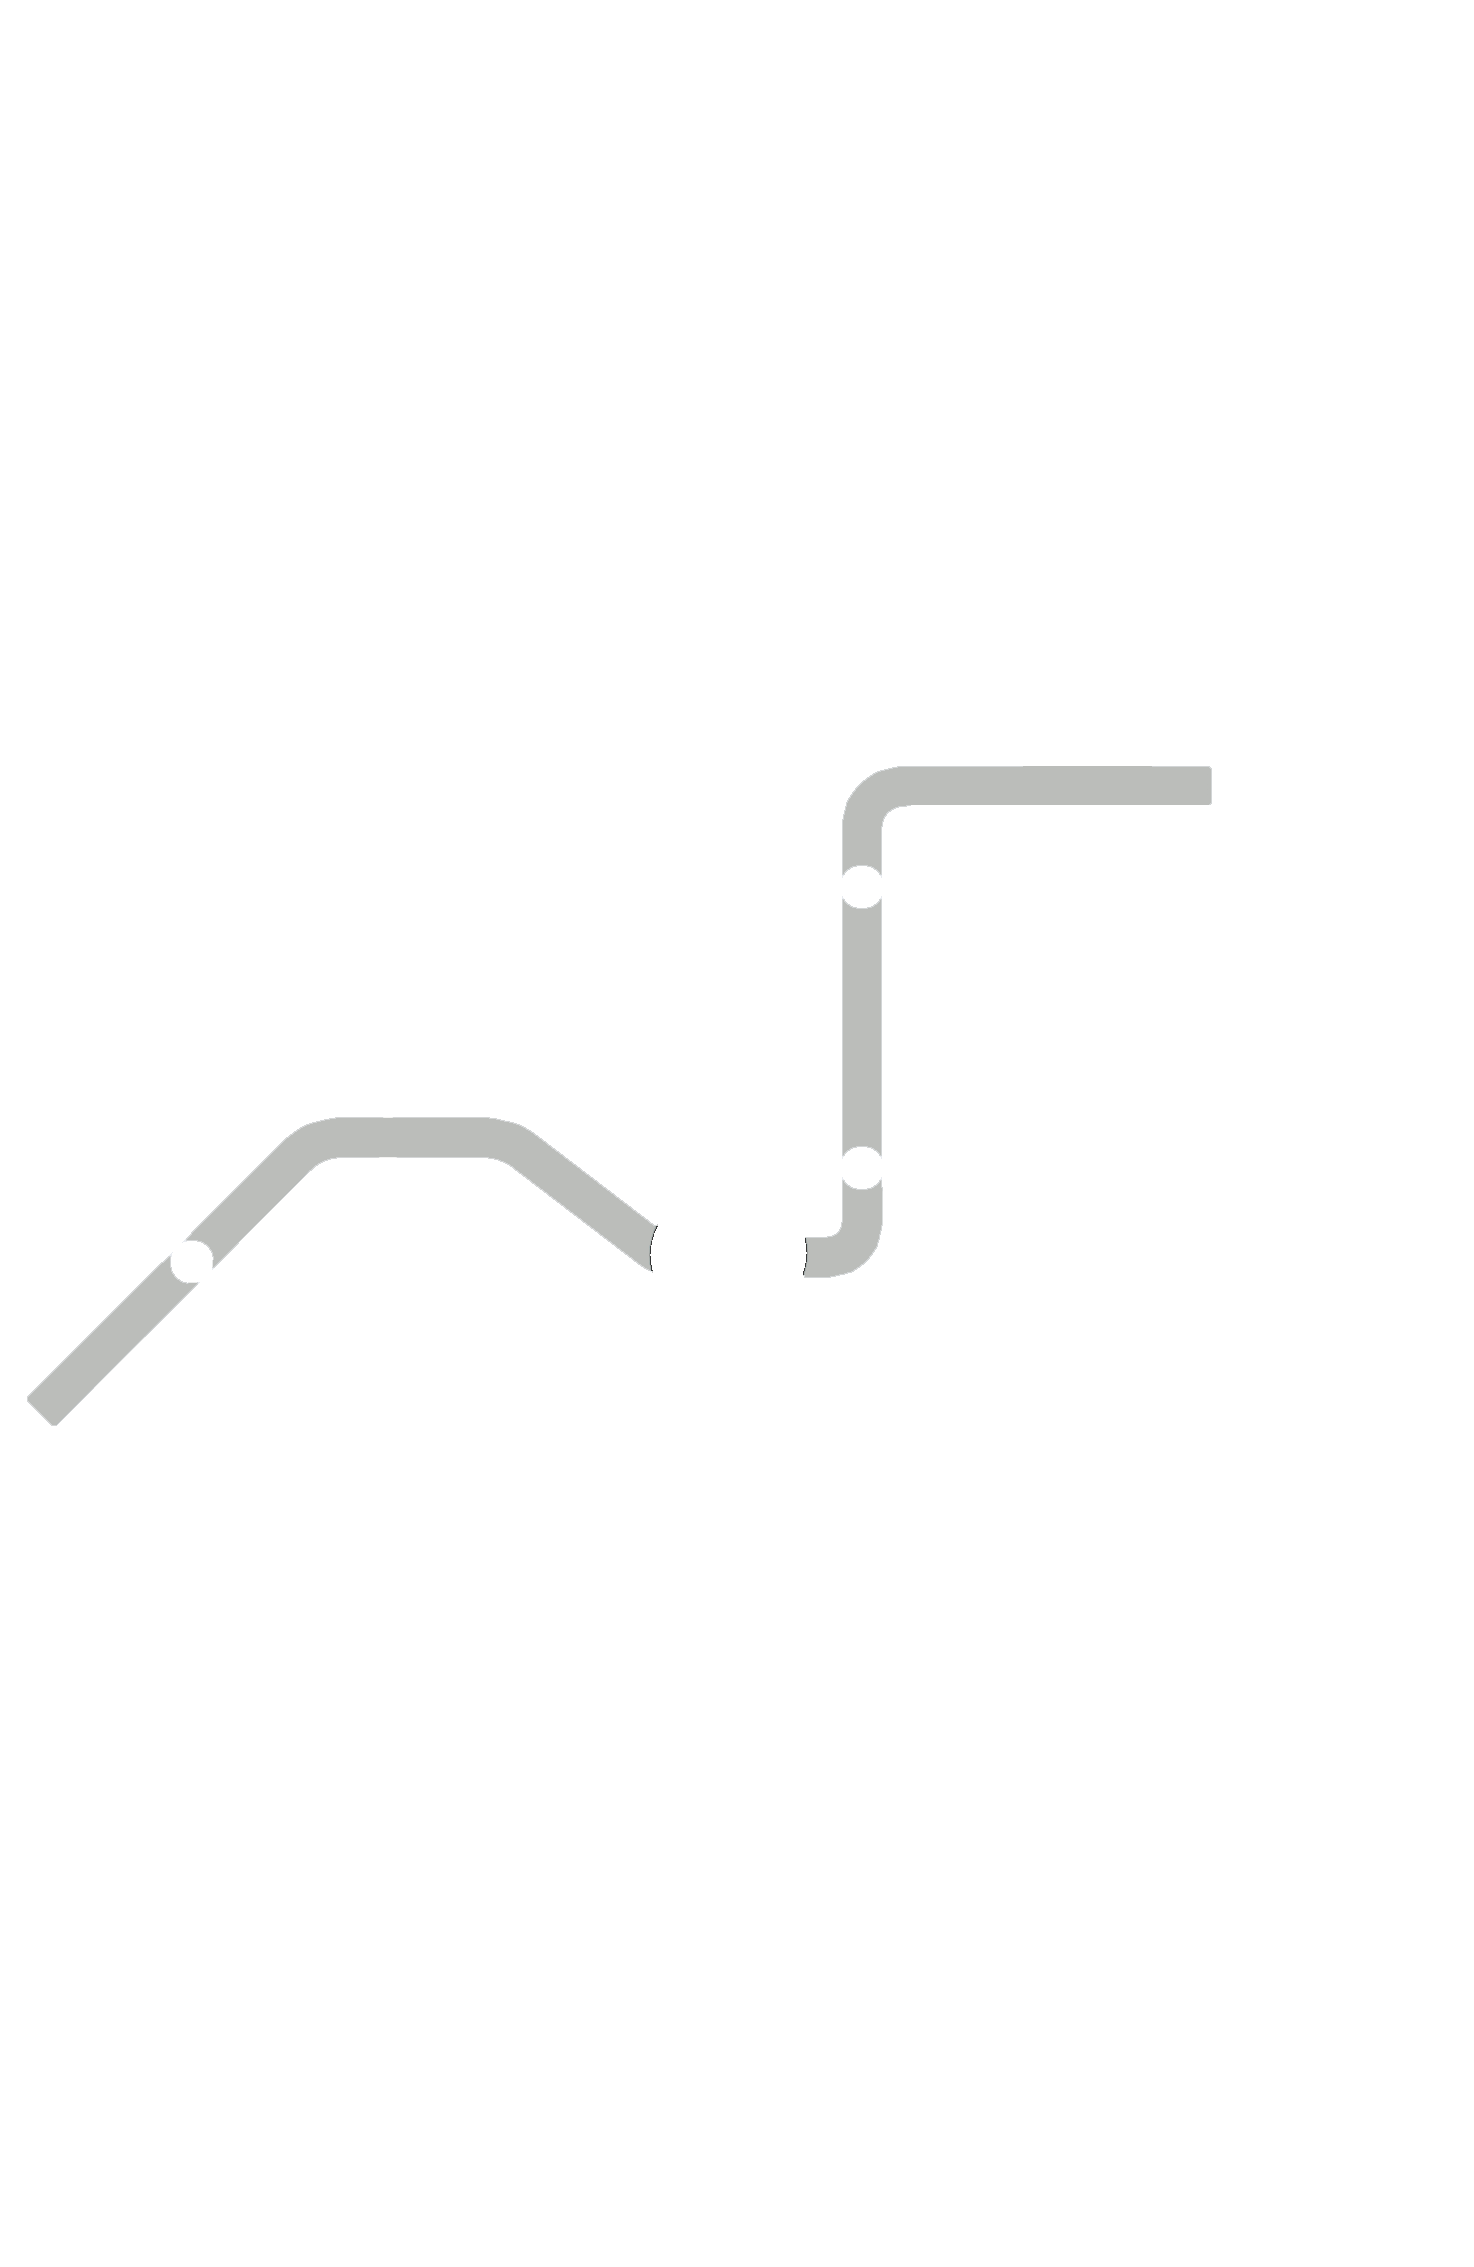
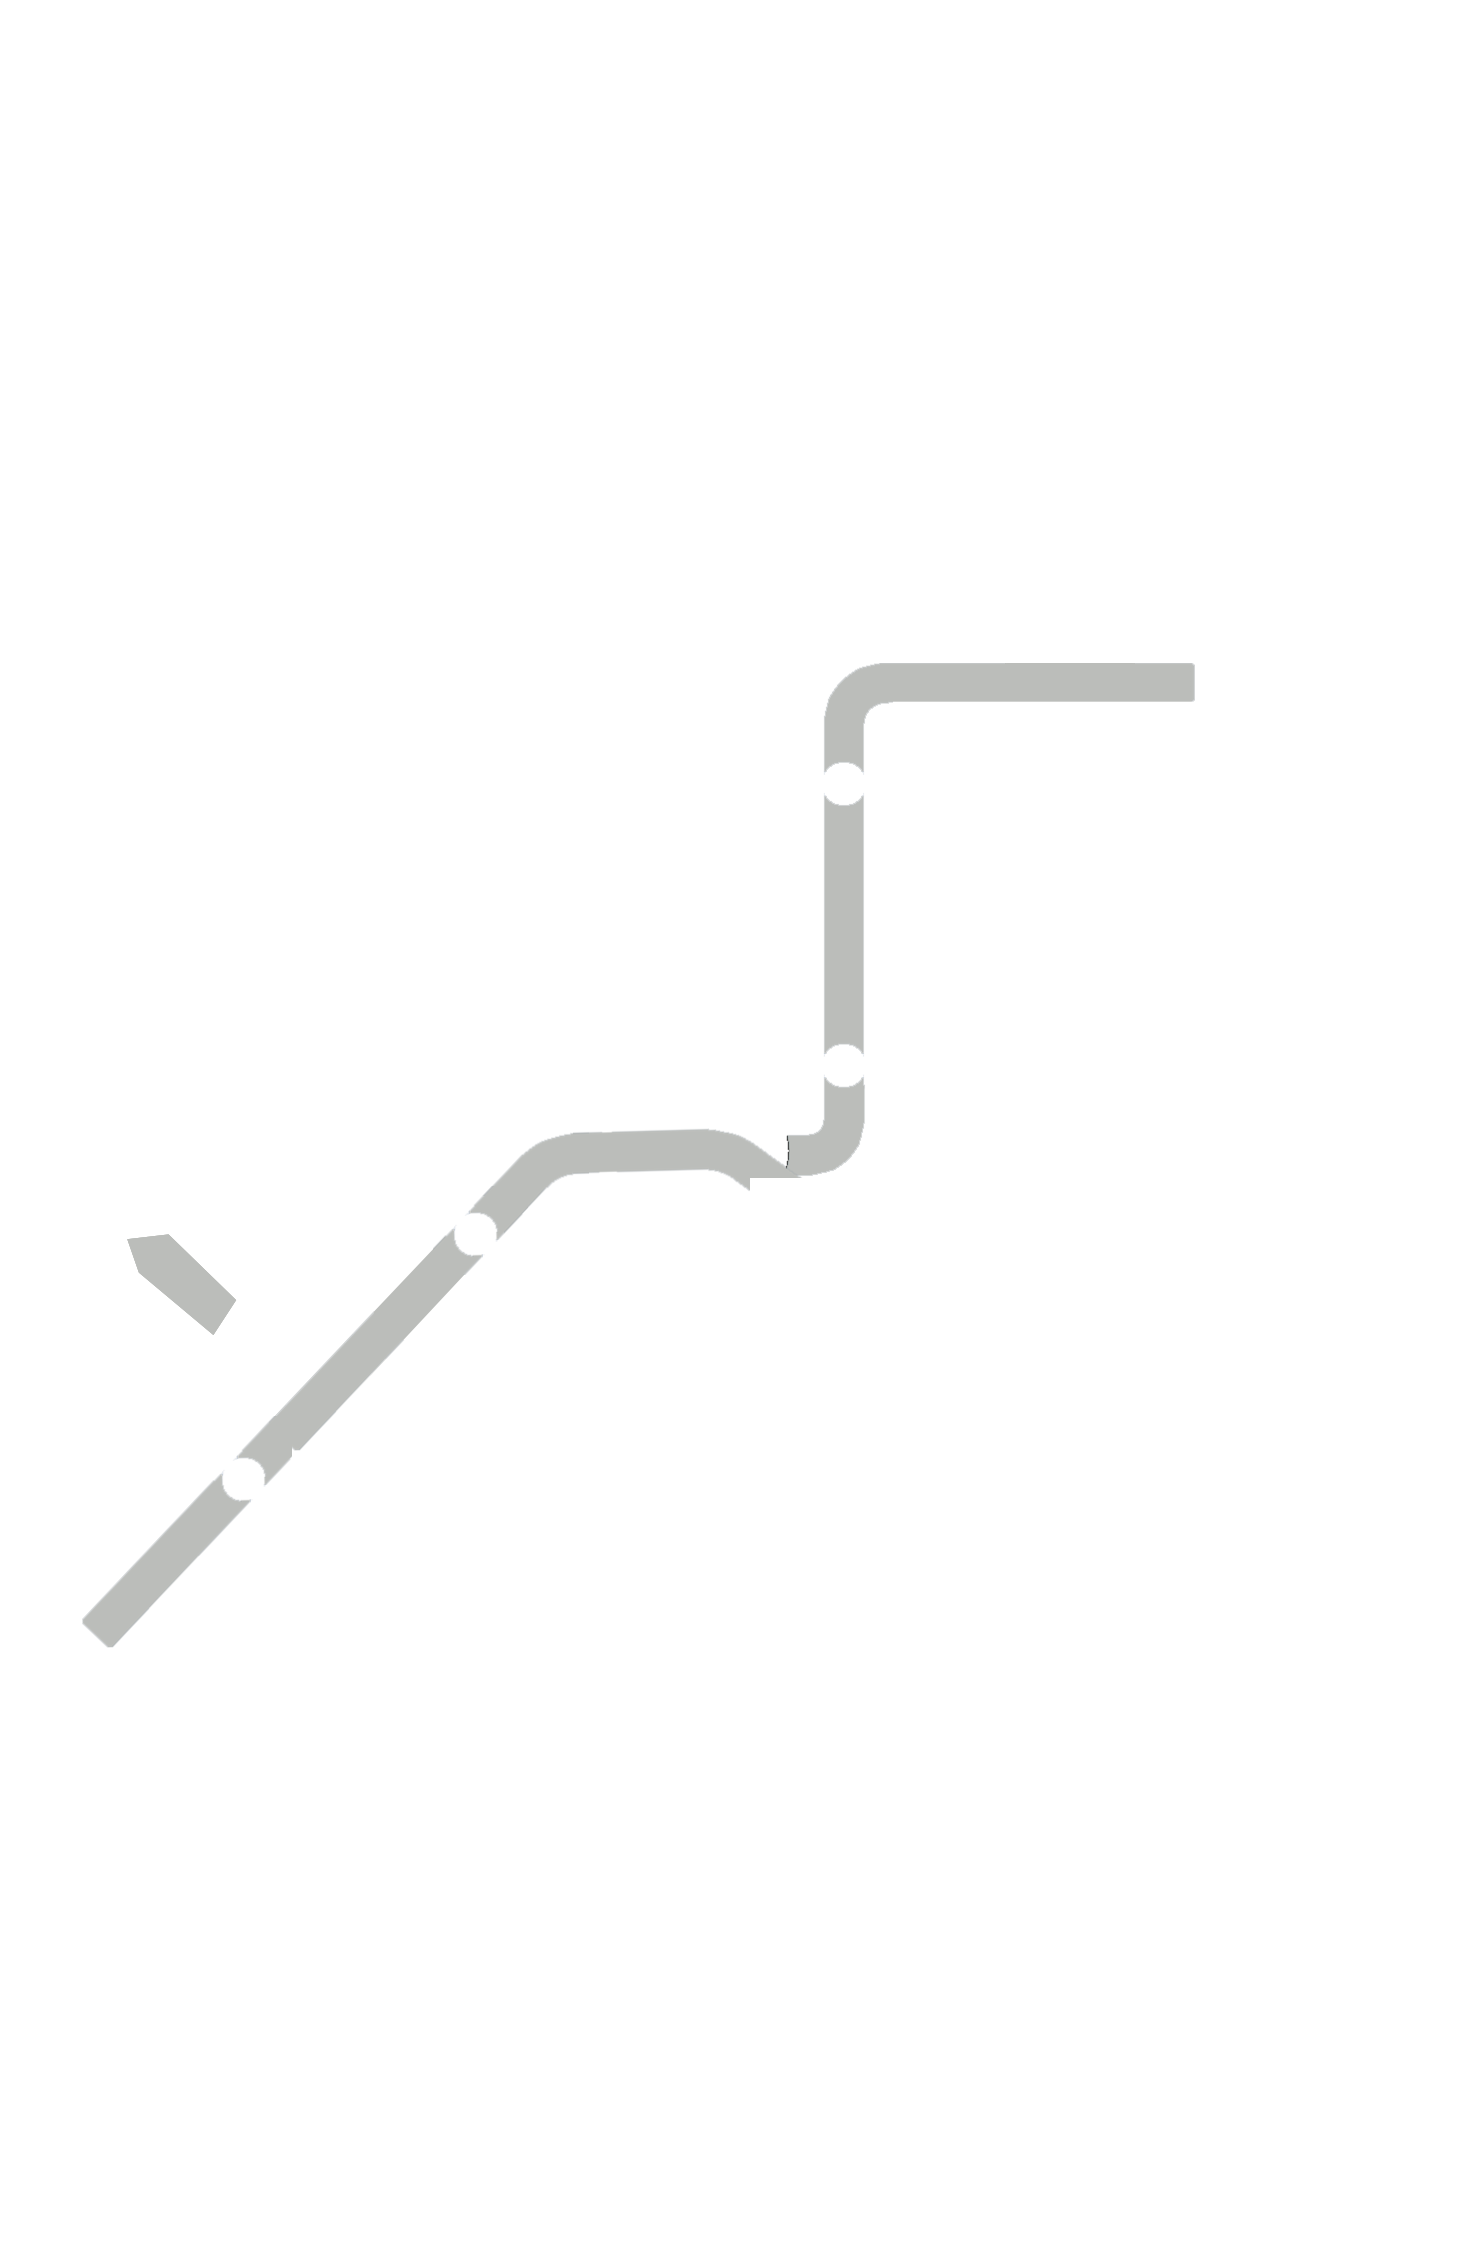
地铁转圈，时间正确，停止enabled

Changed region(s): [[0.0312, 0.2779, 0.8426, 0.7411]]

diff --git a/Assets/Scripts/PathFollower.cs b/Assets/Scripts/PathFollower.cs
@@ -1,5 +1,6 @@
 using System.Collections;
 using System.Collections.Generic;
+using UnityEditor;
 using UnityEngine;
 
 public class PathFollower : MonoBehaviour
@@ -10,12 +11,18 @@ public class PathFollower : MonoBehaviour
 
     // Walk speed that can be set in Inspector
     [SerializeField]
-    private float moveSpeed = 2f;
+    private float distance = 2f;
 
     // Index of current waypoint from which Enemy walks
     // to the next one
-    private int waypointIndex = 0;
+    public int waypointIndex = 0;
     private RectTransform myRT;
+    private SubwayMovement SubwayMovement;
+
+    public List<int> stationNumList;
+    private float moveSpeed;
+    private bool trainMove;
+    private Vector3 currentEulerAngles;
 
     // Use this for initialization
     private void Start () {
@@ -23,6 +30,12 @@ public class PathFollower : MonoBehaviour
         // Set position of Enemy as position of the first waypoint
         myRT = GetComponent<RectTransform>();
         myRT.anchoredPosition= waypoints[waypointIndex].anchoredPosition;
+        
+        SubwayMovement = GameObject.Find("---StationController").GetComponent<SubwayMovement>();
+
+        moveSpeed = distance / SubwayMovement.moveTime;
+        currentEulerAngles = myRT.eulerAngles;
+
     }
 	
     // Update is called once per frame
@@ -32,14 +45,37 @@ public class PathFollower : MonoBehaviour
         Move();
     }
 
+    private float timer;
+
+    private bool timeToGo;
     // Method that actually make Enemy walk
     private void Move()
     {
 //        print("isWorking");
         // If Enemy didn't reach last waypoint it can move
         // If enemy reached last waypoint then it stops
-        if (waypointIndex <= waypoints.Length - 1)
+
+        
+
+        if (!trainMove)
         {
+            if (SubwayMovement.isMoving)
+            {
+                trainMove = true;
+                moveSpeed = distance / SubwayMovement.moveTime;
+            }
+            else
+            {
+                moveSpeed = 0;
+                myRT.eulerAngles = currentEulerAngles;
+            }
+        }
+
+
+        if (waypointIndex <= waypoints.Length - 1 && trainMove)
+        {
+            currentEulerAngles = myRT.eulerAngles;
+
             //print(waypointIndex + "<1");
             // Move Enemy from current waypoint to the next one
             // using MoveTowards method
@@ -53,19 +89,28 @@ public class PathFollower : MonoBehaviour
             myRT.rotation = Quaternion.AngleAxis(angle, Vector3.forward);
                 
                 
-                
             // If Enemy reaches position of waypoint he walked towards
             // then waypointIndex is increased by 1
             // and Enemy starts to walk to the next waypoint
             if (myRT.anchoredPosition == waypoints[waypointIndex].anchoredPosition)
             {
                 waypointIndex += 1;
+                
+                for (int i = 0; i < stationNumList.Count; i++)
+                {
+                    if (waypointIndex == stationNumList[i])
+                    {
+                        trainMove = false;
+                        break;
+                    }
+                }
             }
         }
-        else
+        else if(trainMove)
         {
             waypointIndex = 0;
-            print("=00000");
+            trainMove = false;
+//            print("=00000");
         }
     }
 }
